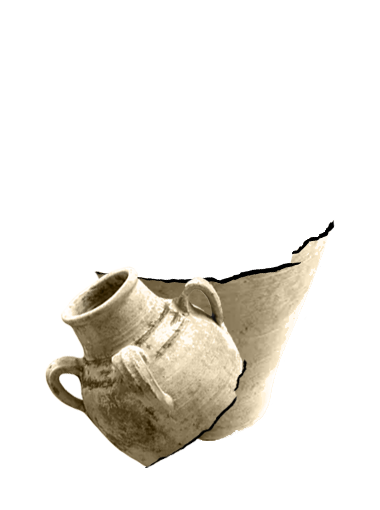
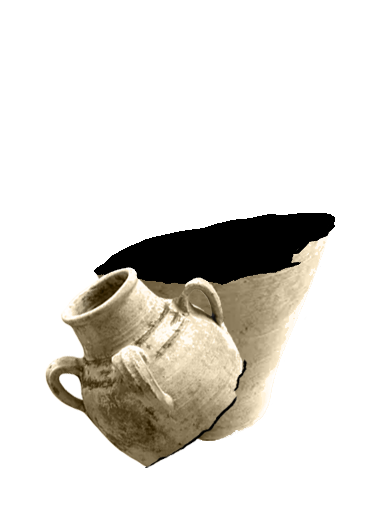
update salleGroupe2: Add jarre

Changed region(s): [[0.2605, 0.4118, 0.8974, 0.5588]]

diff --git a/src/main/java/fr/umontpellier/iut/groupe2/SalleController.java b/src/main/java/fr/umontpellier/iut/groupe2/SalleController.java
@@ -22,6 +22,8 @@ import java.nio.file.Paths;
 public class SalleController {
 
     public ImageView fondDeBase;
+    public ImageView jarre;
+    public ImageView jarreCassee;
     @FXML
     private ImageView premierTrait, deuxTrait, troisTrait, quatreTrait, cinqTrait;
     @FXML
@@ -73,6 +75,7 @@ public class SalleController {
                 dark_Id.setVisible(false);
                 new MediaPlayer(gemmePlacePillier).play();
                 buttonMissing.setOpacity(1);
+                jarre.setOpacity(0.9);
                 MainSalleGroupe2.stepManager.getInventaire().retirerItem(ItemId.boutonLumiere);
             }
         }
@@ -89,6 +92,7 @@ public class SalleController {
         } else if (mouseEvent.getSource() == gemmeViolette) {
             MainSalleGroupe2.stepManager.getInventaire().ajouterItem(ItemId.gemmeViolette);
             gemmeViolette.setVisible(false);
+            jarreCassee.setVisible(true);
         }
     }
 
@@ -265,5 +269,10 @@ public class SalleController {
 
         MainSalleGroupe2.stepManager.getInventaire().ajouterItem(ItemId.taquinPiece12);
         piece25Taquin.setVisible(false);
+    }
+
+    public void casseJarre() {
+        jarre.setVisible(false);
+        gemmeViolette.setVisible(true);
     }
 }
